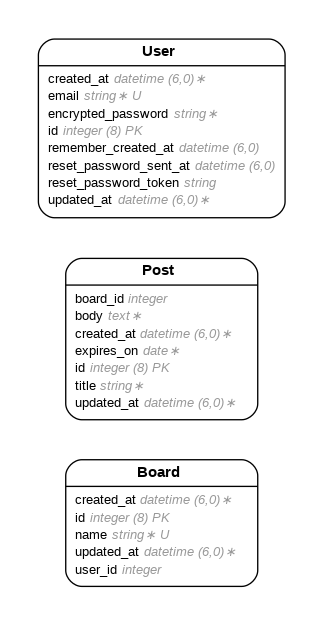
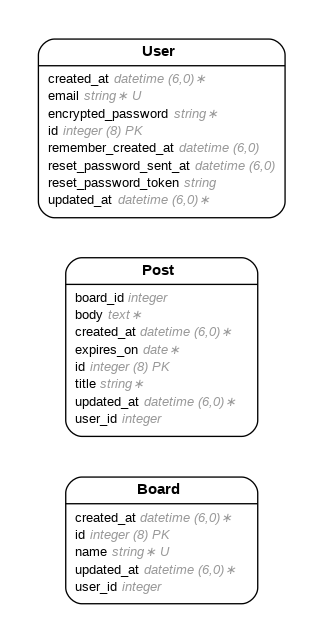
complete but check grade

diff --git a/db/schema.rb b/db/schema.rb
@@ -10,7 +10,7 @@
 #
 # It's strongly recommended that you check this file into your version control system.
 
-ActiveRecord::Schema[7.1].define(version: 2024_11_20_022222) do
+ActiveRecord::Schema[7.1].define(version: 2024_11_20_022404) do
   # These are extensions that must be enabled in order to support this database
   enable_extension "plpgsql"
 
@@ -28,6 +28,7 @@ ActiveRecord::Schema[7.1].define(version: 2024_11_20_022222) do
     t.integer "board_id"
     t.datetime "created_at", null: false
     t.datetime "updated_at", null: false
+    t.integer "user_id"
   end
 
   create_table "users", force: :cascade do |t|

diff --git a/app/controllers/posts_controller.rb b/app/controllers/posts_controller.rb
@@ -24,6 +24,8 @@ class PostsController < ApplicationController
     the_post.expires_on = params.fetch("query_expires_on")
     the_post.board_id = params.fetch("query_board_id")
 
+    the_post.user_id = current_user.id
+
     if the_post.valid?
       the_post.save
       redirect_to("/boards/#{the_post.board_id}", { :notice => "Post created successfully." })

diff --git a/app/controllers/boards_controller.rb b/app/controllers/boards_controller.rb
@@ -27,6 +27,8 @@ class BoardsController < ApplicationController
     the_board = Board.new
     the_board.name = params.fetch("query_name")
 
+    the_board.user_id = current_user.id
+
     if the_board.valid?
       the_board.save
       redirect_to("/boards/#{the_board.id}", { :notice => "Board created successfully." })

diff --git a/app/models/post.rb b/app/models/post.rb
@@ -9,6 +9,7 @@
 #  created_at :datetime         not null
 #  updated_at :datetime         not null
 #  board_id   :integer
+#  user_id    :integer
 #
 class Post < ApplicationRecord
   validates(:title, presence: true)
